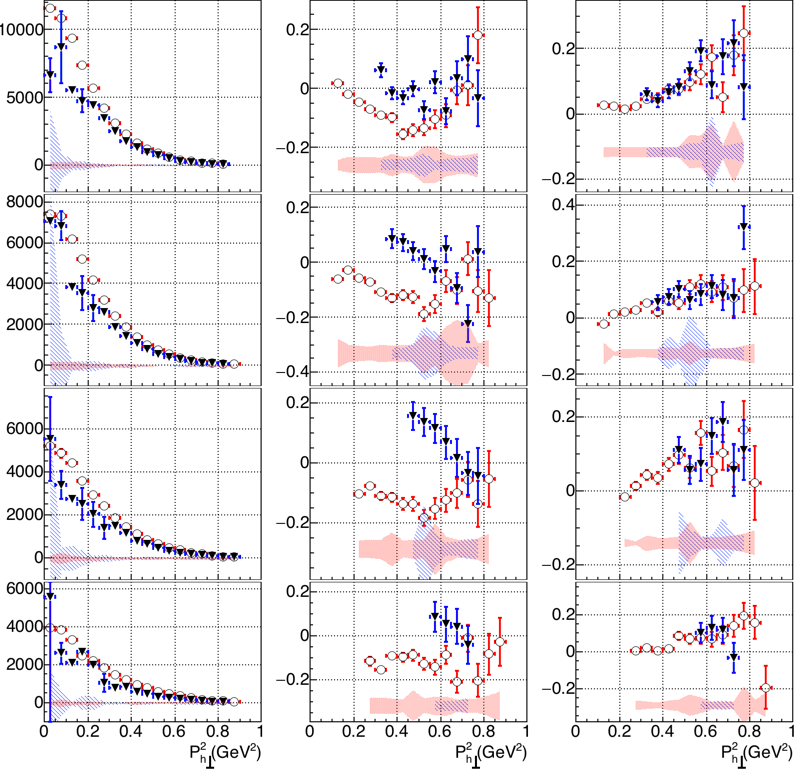
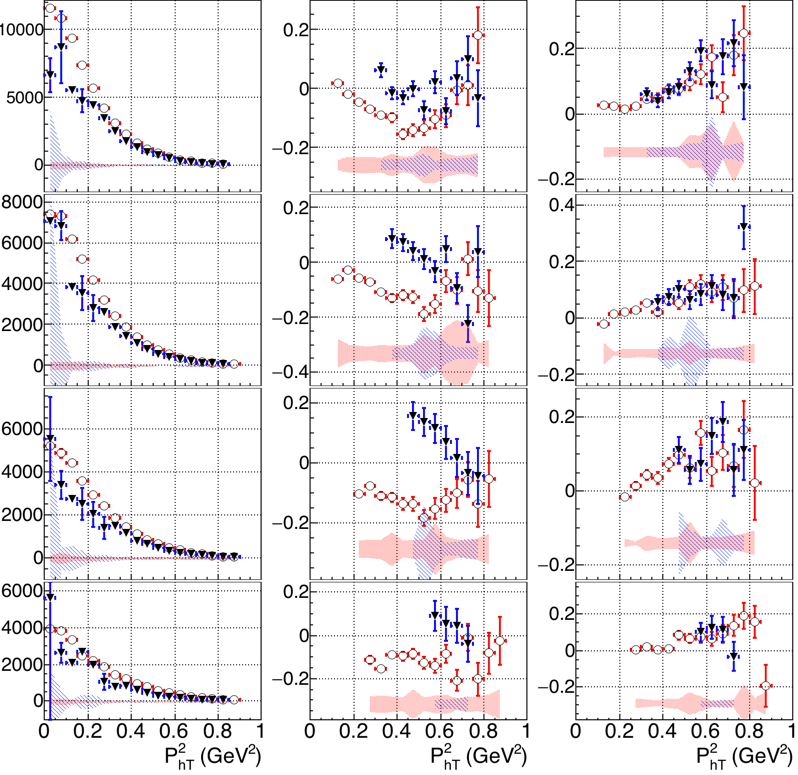
Larger labels on fig. 2

diff --git a/PRL/plot_remakes/plot2.C b/PRL/plot_remakes/plot2.C
@@ -3,7 +3,7 @@ TFile *tf = new TFile("fig2.root", "READ");
 TCanvas *can = new TCanvas("can", "can", 5, 5, 800, 800);
 can->Divide(3, 4, 0.001, 0.001);
 
-float fontsize = 0.1;
+float fontsize = 0.12;
 float topmargin = 0.00;
 float bottommargin = 0;
 float leftmargin = 0.17;
@@ -22,7 +22,7 @@ hpipM_116->GetXaxis()->SetNdivisions(505);
 hpipM_116->GetYaxis()->SetNdivisions(505);
 hpipM_116->GetXaxis()->SetTitleSize(fontsize);
 hpipM_116->GetXaxis()->SetLabelSize(fontsize);
-hpipM_116->GetYaxis()->SetLabelSize(0.1);
+hpipM_116->GetYaxis()->SetLabelSize(0.10);
 hpipM_116->GetYaxis()->SetRangeUser(-2000, 12200);
 hpipM_116->Draw("E1");
 hpimM_116->Draw("same E1");
@@ -42,7 +42,7 @@ hpipAc_116->GetXaxis()->SetNdivisions(505);
 hpipAc_116->GetYaxis()->SetNdivisions(505);
 hpipAc_116->GetXaxis()->SetTitleSize(fontsize);
 hpipAc_116->GetXaxis()->SetLabelSize(fontsize);
-hpipAc_116->GetYaxis()->SetLabelSize(0.1);
+hpipAc_116->GetYaxis()->SetLabelSize(0.11);
 hpipAc_116->GetYaxis()->SetRangeUser(-0.35, 0.3);
 hpipAc_116->Draw("E1");
 hpimAc_116->Draw("same E1");
@@ -62,7 +62,7 @@ hpipAcc_116->GetXaxis()->SetNdivisions(505);
 hpipAcc_116->GetYaxis()->SetNdivisions(505);
 hpipAcc_116->GetXaxis()->SetTitleSize(fontsize);
 hpipAcc_116->GetXaxis()->SetLabelSize(fontsize);
-hpipAcc_116->GetYaxis()->SetLabelSize(0.1);
+hpipAcc_116->GetYaxis()->SetLabelSize(0.11);
 hpipAcc_116->GetYaxis()->SetRangeUser(-0.24, 0.35);
 hpipAcc_116->Draw("E1");
 hpimAcc_116->Draw("same E1");
@@ -83,7 +83,7 @@ hpipM_117->GetXaxis()->SetNdivisions(505);
 hpipM_117->GetYaxis()->SetNdivisions(505);
 hpipM_117->GetXaxis()->SetTitleSize(fontsize);
 hpipM_117->GetXaxis()->SetLabelSize(fontsize);
-hpipM_117->GetYaxis()->SetLabelSize(0.1);
+hpipM_117->GetYaxis()->SetLabelSize(0.11);
 hpipM_117->GetYaxis()->SetRangeUser(-1000, 8400);
 hpipM_117->Draw("E1");
 hpimM_117->Draw("same E1");
@@ -103,7 +103,7 @@ hpipAc_117->GetXaxis()->SetNdivisions(505);
 hpipAc_117->GetYaxis()->SetNdivisions(505);
 hpipAc_117->GetXaxis()->SetTitleSize(fontsize);
 hpipAc_117->GetXaxis()->SetLabelSize(fontsize);
-hpipAc_117->GetYaxis()->SetLabelSize(0.1);
+hpipAc_117->GetYaxis()->SetLabelSize(0.11);
 hpipAc_117->GetYaxis()->SetRangeUser(-0.45, 0.25);
 hpipAc_117->Draw("E1");
 hpimAc_117->Draw("same E1");
@@ -123,7 +123,7 @@ hpipAcc_117->GetXaxis()->SetNdivisions(505);
 hpipAcc_117->GetYaxis()->SetNdivisions(505);
 hpipAcc_117->GetXaxis()->SetTitleSize(fontsize);
 hpipAcc_117->GetXaxis()->SetLabelSize(fontsize);
-hpipAcc_117->GetYaxis()->SetLabelSize(0.1);
+hpipAcc_117->GetYaxis()->SetLabelSize(0.11);
 hpipAcc_117->GetYaxis()->SetRangeUser(-0.24, 0.44);
 hpipAcc_117->Draw("E1");
 hpimAcc_117->Draw("same E1");
@@ -144,7 +144,7 @@ hpipM_118->GetXaxis()->SetNdivisions(505);
 hpipM_118->GetYaxis()->SetNdivisions(505);
 hpipM_118->GetXaxis()->SetTitleSize(fontsize);
 hpipM_118->GetXaxis()->SetLabelSize(fontsize);
-hpipM_118->GetYaxis()->SetLabelSize(0.1);
+hpipM_118->GetYaxis()->SetLabelSize(0.11);
 hpipM_118->GetYaxis()->SetRangeUser(-1000, 7900);
 hpipM_118->Draw("E1");
 hpimM_118->Draw("same E1");
@@ -164,7 +164,7 @@ hpipAc_118->GetXaxis()->SetNdivisions(505);
 hpipAc_118->GetYaxis()->SetNdivisions(505);
 hpipAc_118->GetXaxis()->SetTitleSize(fontsize);
 hpipAc_118->GetXaxis()->SetLabelSize(fontsize);
-hpipAc_118->GetYaxis()->SetLabelSize(0.1);
+hpipAc_118->GetYaxis()->SetLabelSize(0.11);
 hpipAc_118->GetYaxis()->SetRangeUser(-0.39, 0.25);
 hpipAc_118->Draw("E1");
 hpimAc_118->Draw("same E1");
@@ -184,7 +184,7 @@ hpipAcc_118->GetXaxis()->SetNdivisions(505);
 hpipAcc_118->GetYaxis()->SetNdivisions(505);
 hpipAcc_118->GetXaxis()->SetTitleSize(fontsize);
 hpipAcc_118->GetXaxis()->SetLabelSize(fontsize);
-hpipAcc_118->GetYaxis()->SetLabelSize(0.1);
+hpipAcc_118->GetYaxis()->SetLabelSize(0.11);
 hpipAcc_118->GetYaxis()->SetRangeUser(-0.24, 0.28);
 hpipAcc_118->Draw("E1");
 hpimAcc_118->Draw("same E1");
@@ -194,7 +194,7 @@ grpimSys_Acc_118->Draw("E3 same");
 
 
 // 119
-bottommargin = 0.27;
+bottommargin = 0.28;
 can->cd(10)->SetTopMargin(topmargin);
 can->cd(10)->SetBottomMargin(bottommargin);
 can->cd(10)->SetLeftMargin(leftmargin);
@@ -202,12 +202,13 @@ can->cd(10)->SetRightMargin(rightmargin);
 can->cd(10)->SetGrid();
 
 hpipM_119->SetTitle("");
+hpipM_119->GetXaxis()->SetTitle("P_{hT}^{2} (GeV^{2})");
 hpipM_119->GetXaxis()->SetNdivisions(505);
 hpipM_119->GetYaxis()->SetNdivisions(505);
 hpipM_119->GetXaxis()->SetTitleSize(fontsize);
 hpipM_119->GetXaxis()->SetLabelSize(fontsize);
-hpipM_119->GetYaxis()->SetLabelSize(0.1);
-hpipM_119->GetYaxis()->SetRangeUser(-1000, 6400);
+hpipM_119->GetYaxis()->SetLabelSize(0.11);
+hpipM_119->GetYaxis()->SetRangeUser(-1000, 6500);
 hpipM_119->Draw("E1");
 hpimM_119->Draw("same E1");
 grpipSys_M_119->Draw("E3 same");
@@ -222,11 +223,12 @@ can->cd(11)->SetRightMargin(rightmargin);
 can->cd(11)->SetGrid();
 
 hpipAc_119->SetTitle("");
+hpipAc_119->GetXaxis()->SetTitle("P_{hT}^{2} (GeV^{2})");
 hpipAc_119->GetXaxis()->SetNdivisions(505);
 hpipAc_119->GetYaxis()->SetNdivisions(505);
 hpipAc_119->GetXaxis()->SetTitleSize(fontsize);
 hpipAc_119->GetXaxis()->SetLabelSize(fontsize);
-hpipAc_119->GetYaxis()->SetLabelSize(0.1);
+hpipAc_119->GetYaxis()->SetLabelSize(0.11);
 hpipAc_119->GetYaxis()->SetRangeUser(-0.39, 0.25);
 hpipAc_119->Draw("E1");
 hpimAc_119->Draw("same E1");
@@ -242,11 +244,12 @@ can->cd(12)->SetRightMargin(rightmargin);
 can->cd(12)->SetGrid();
 
 hpipAcc_119->SetTitle("");
+hpipAcc_119->GetXaxis()->SetTitle("P_{hT}^{2} (GeV^{2})");
 hpipAcc_119->GetXaxis()->SetNdivisions(505);
 hpipAcc_119->GetYaxis()->SetNdivisions(505);
 hpipAcc_119->GetXaxis()->SetTitleSize(fontsize);
 hpipAcc_119->GetXaxis()->SetLabelSize(fontsize);
-hpipAcc_119->GetYaxis()->SetLabelSize(0.1);
+hpipAcc_119->GetYaxis()->SetLabelSize(0.11);
 hpipAcc_119->GetYaxis()->SetRangeUser(-0.38, 0.38);
 hpipAcc_119->Draw("E1");
 hpimAcc_119->Draw("same E1");
